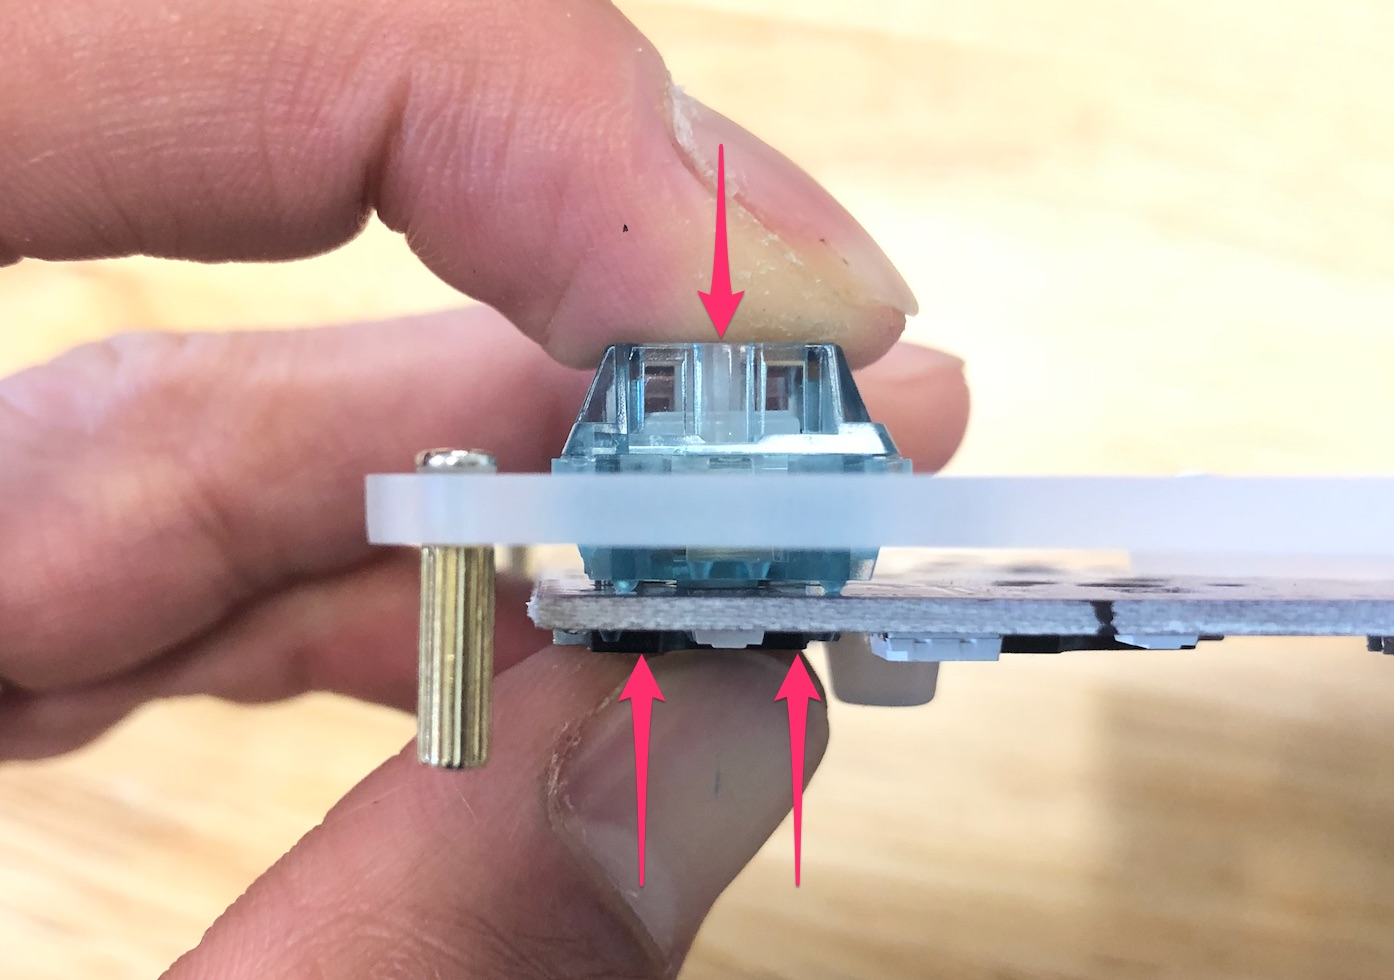
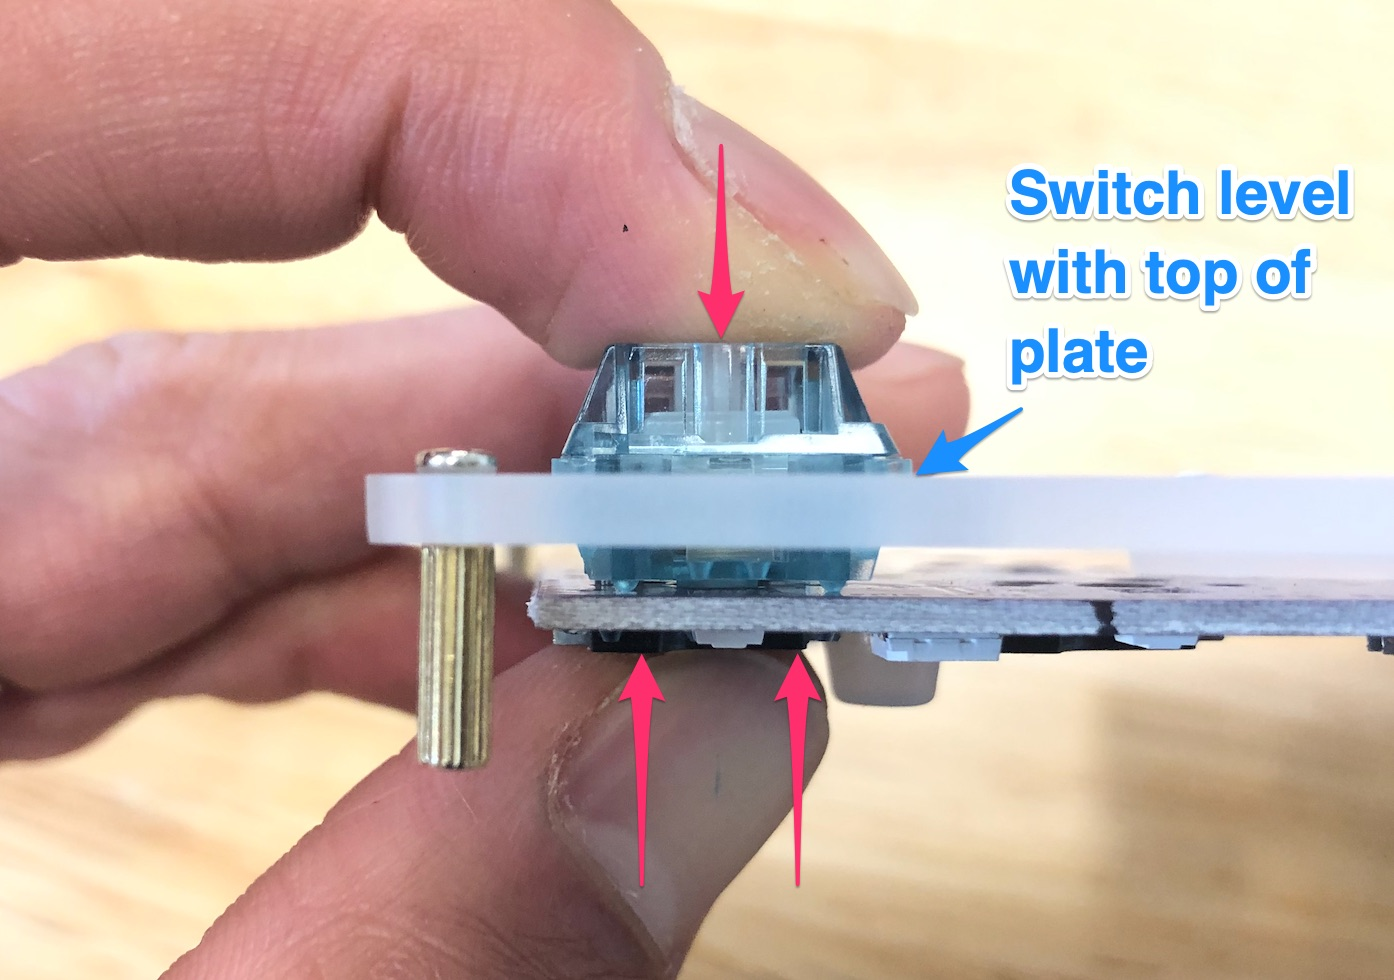
Add note on switch level

Changed region(s): [[0.7095, 0.1531, 0.9871, 0.3061], [0.6478, 0.3367, 0.8329, 0.4898]]

diff --git a/docs/hotswap-switch-installation.md b/docs/hotswap-switch-installation.md
@@ -51,6 +51,8 @@ If you have a switch with a bent pin, unbend the pin. Sometimes it helps to have
 
 Once you've ensured that the legs of the switch are straight, insert it through the switch plate and into the hotswap socket on the PCB. While doing so, make sure the bottom of the socket is supported by your thumb so the socket is not accidentally pushed out of place.
 
+Also make sure the switch is fully seated and is level with the top of the switch plate.
+
 ![](./assets/images/hotswap/squeeze.jpg)
 
 If you find that you need to apply too much force, recheck that the switch pins are straight.
